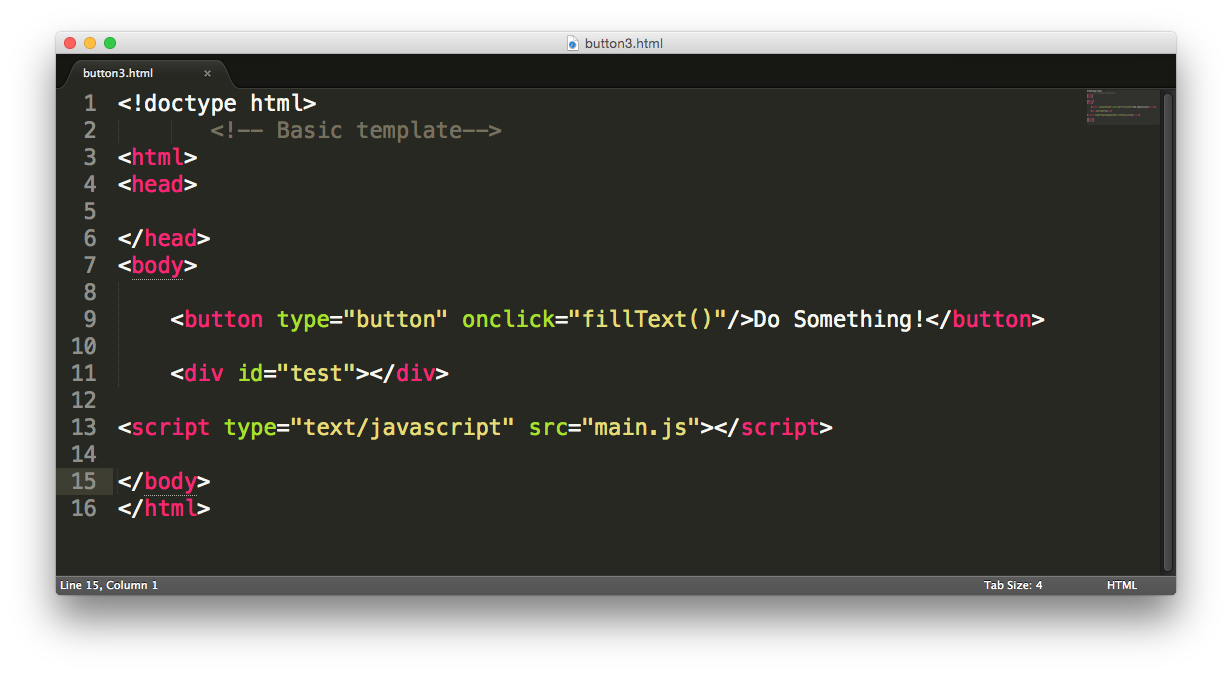
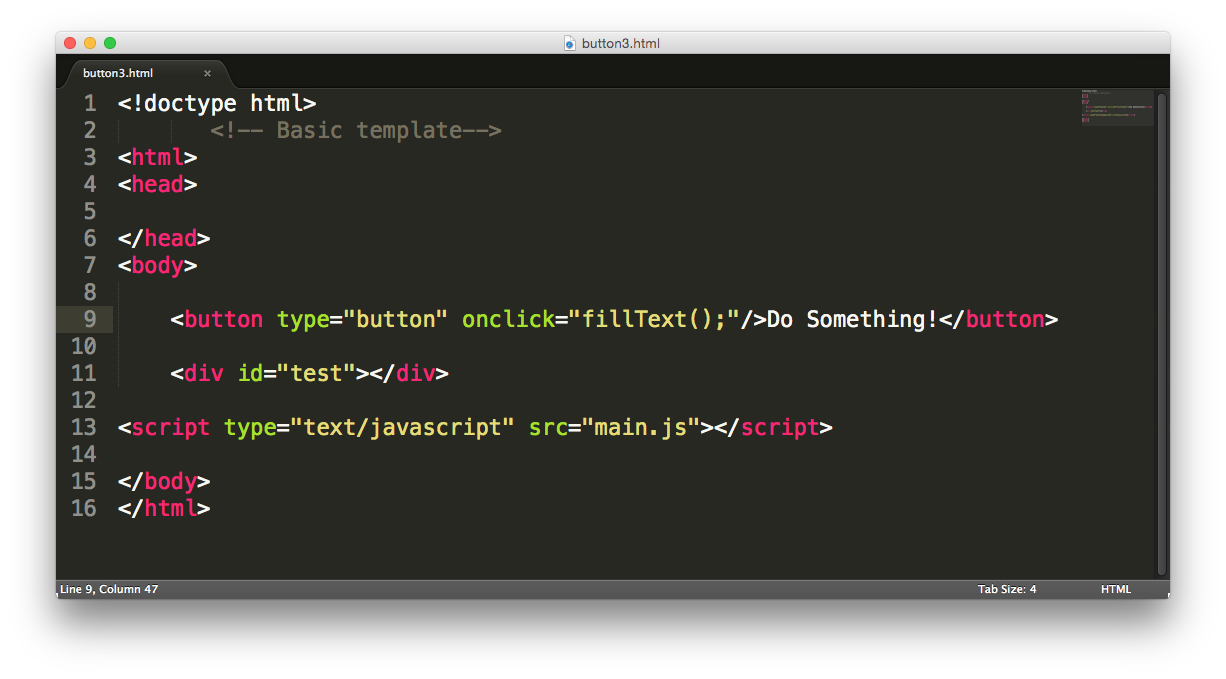
add exercise 1

diff --git a/button4.html b/button4.html
@@ -1,0 +1,13 @@
+<!doctype html>
+       <!-- Basic template-->
+<html>
+<head>
+
+</head>
+<body>
+
+	<button type="button" onclick="addIt()"/>Do Something!</button>
+	<div id="para"></div> <!-- Closes div id  para -->
+	<script type="text/javascript" src="main.js"></script>
+</body>
+</html>

diff --git a/main.js b/main.js
@@ -3,5 +3,6 @@ function myAlert(){
 }
 
 function fillText(){
-	document.getElementById("test").innerHTML = "<br>Interactivity just added info to your page!";
+	document.getElementById("test").innerHTML = 
+		"<br>Interactivity just added info to your page!";
 }

diff --git a/button3.html b/button3.html
@@ -6,7 +6,7 @@
 </head>
 <body>
 
-	<button type="button" onclick="fillText()"/>Do Something!</button>
+	<button type="button" onclick="fillText();"/>Do Something!</button>
 	
 	<div id="test"></div>
 

diff --git a/README.md b/README.md
@@ -70,4 +70,28 @@
 <img src="/img/define-function.png">
 </p>
 
+<h3>Naming Functions</h3>
+<p>All the same rules as naming variables apply.</p>
+
+<p>Again the idea is to give meaningful names to functions-- name them for what they do. Apart from that, here are some basic rules: </p>
+
+<ul>
+	<li>
+		They ARE case sensitive.
+	</li>
+	<li>
+		Cannot begin with numbers.
+	</li>
+	<li>
+		No spaces between words, instead use underscores, hypens or camelCase.
+	</li>
+	<li>
+		Don't use any JavaScript <a href="http://www.w3schools.com/js/js_reserved.asp">reserved words</a>.
+	</li>
+
+	<h3>Calling or Invoking a Function</h3>
+	<p>When you call or invoke a function, you trigger it to run and complete its task. You've already called a function in your button. You call a function by typing <code>functionName();</code></p>
+
+	<h2>Exercise 1</h2>
+	<p>In Sublime, take your work from last week's <a href="https://github.com/sandeepmj/JavaScript-lesson-1#exercise-one-15-minutes">Exercise One</a> and trigger the change in style at the click of a button.</p>
 
